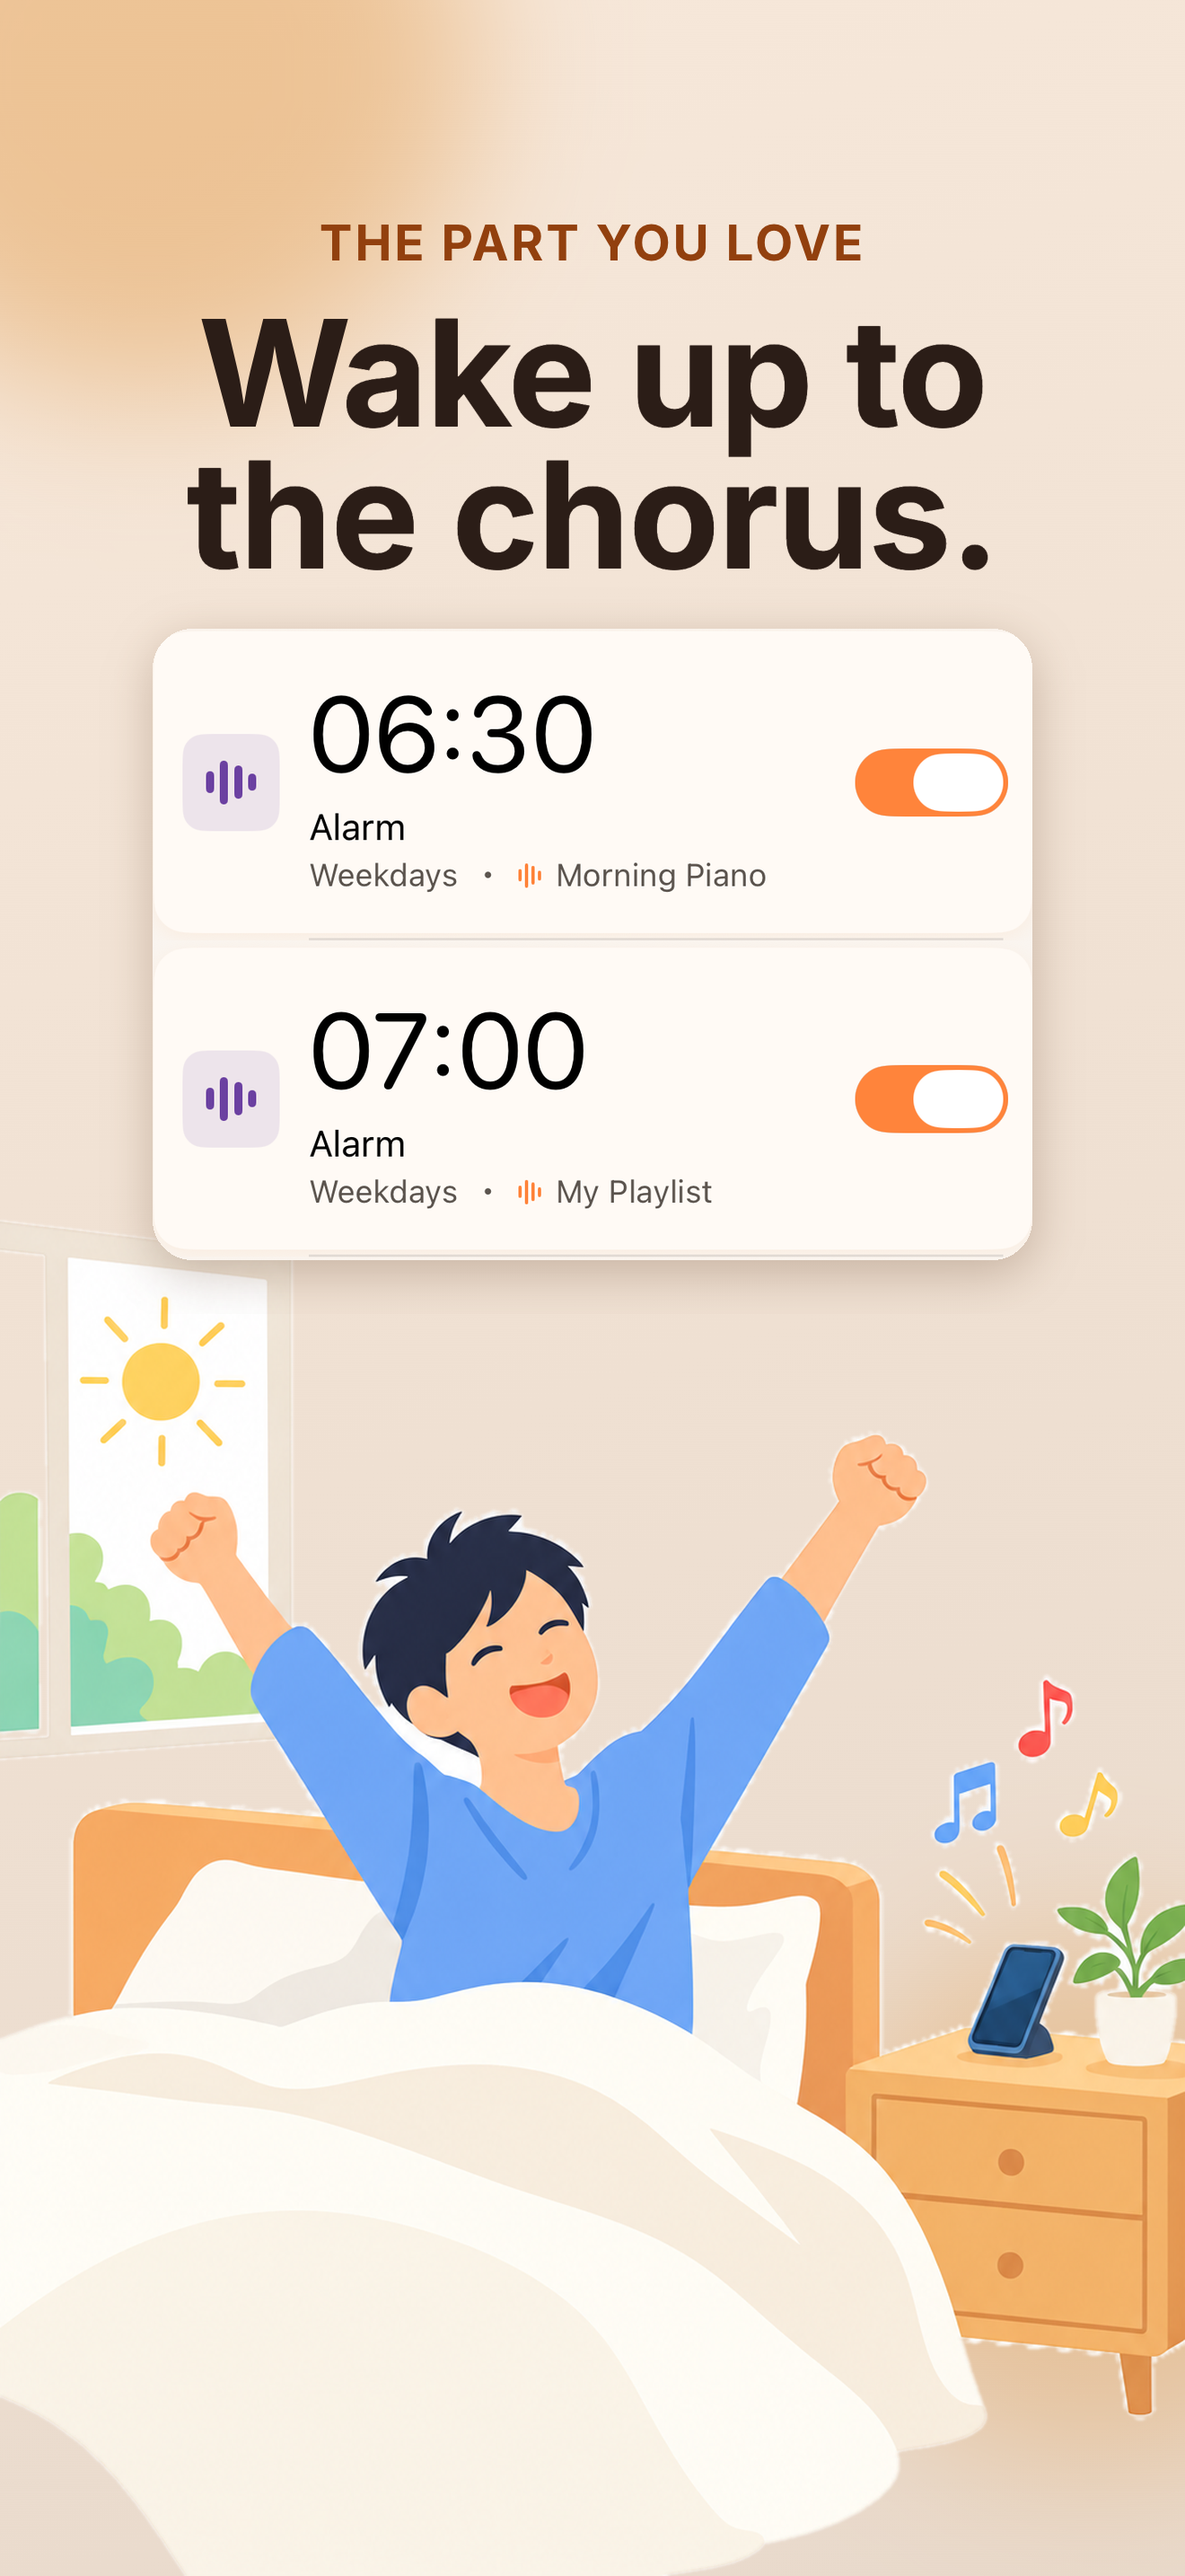
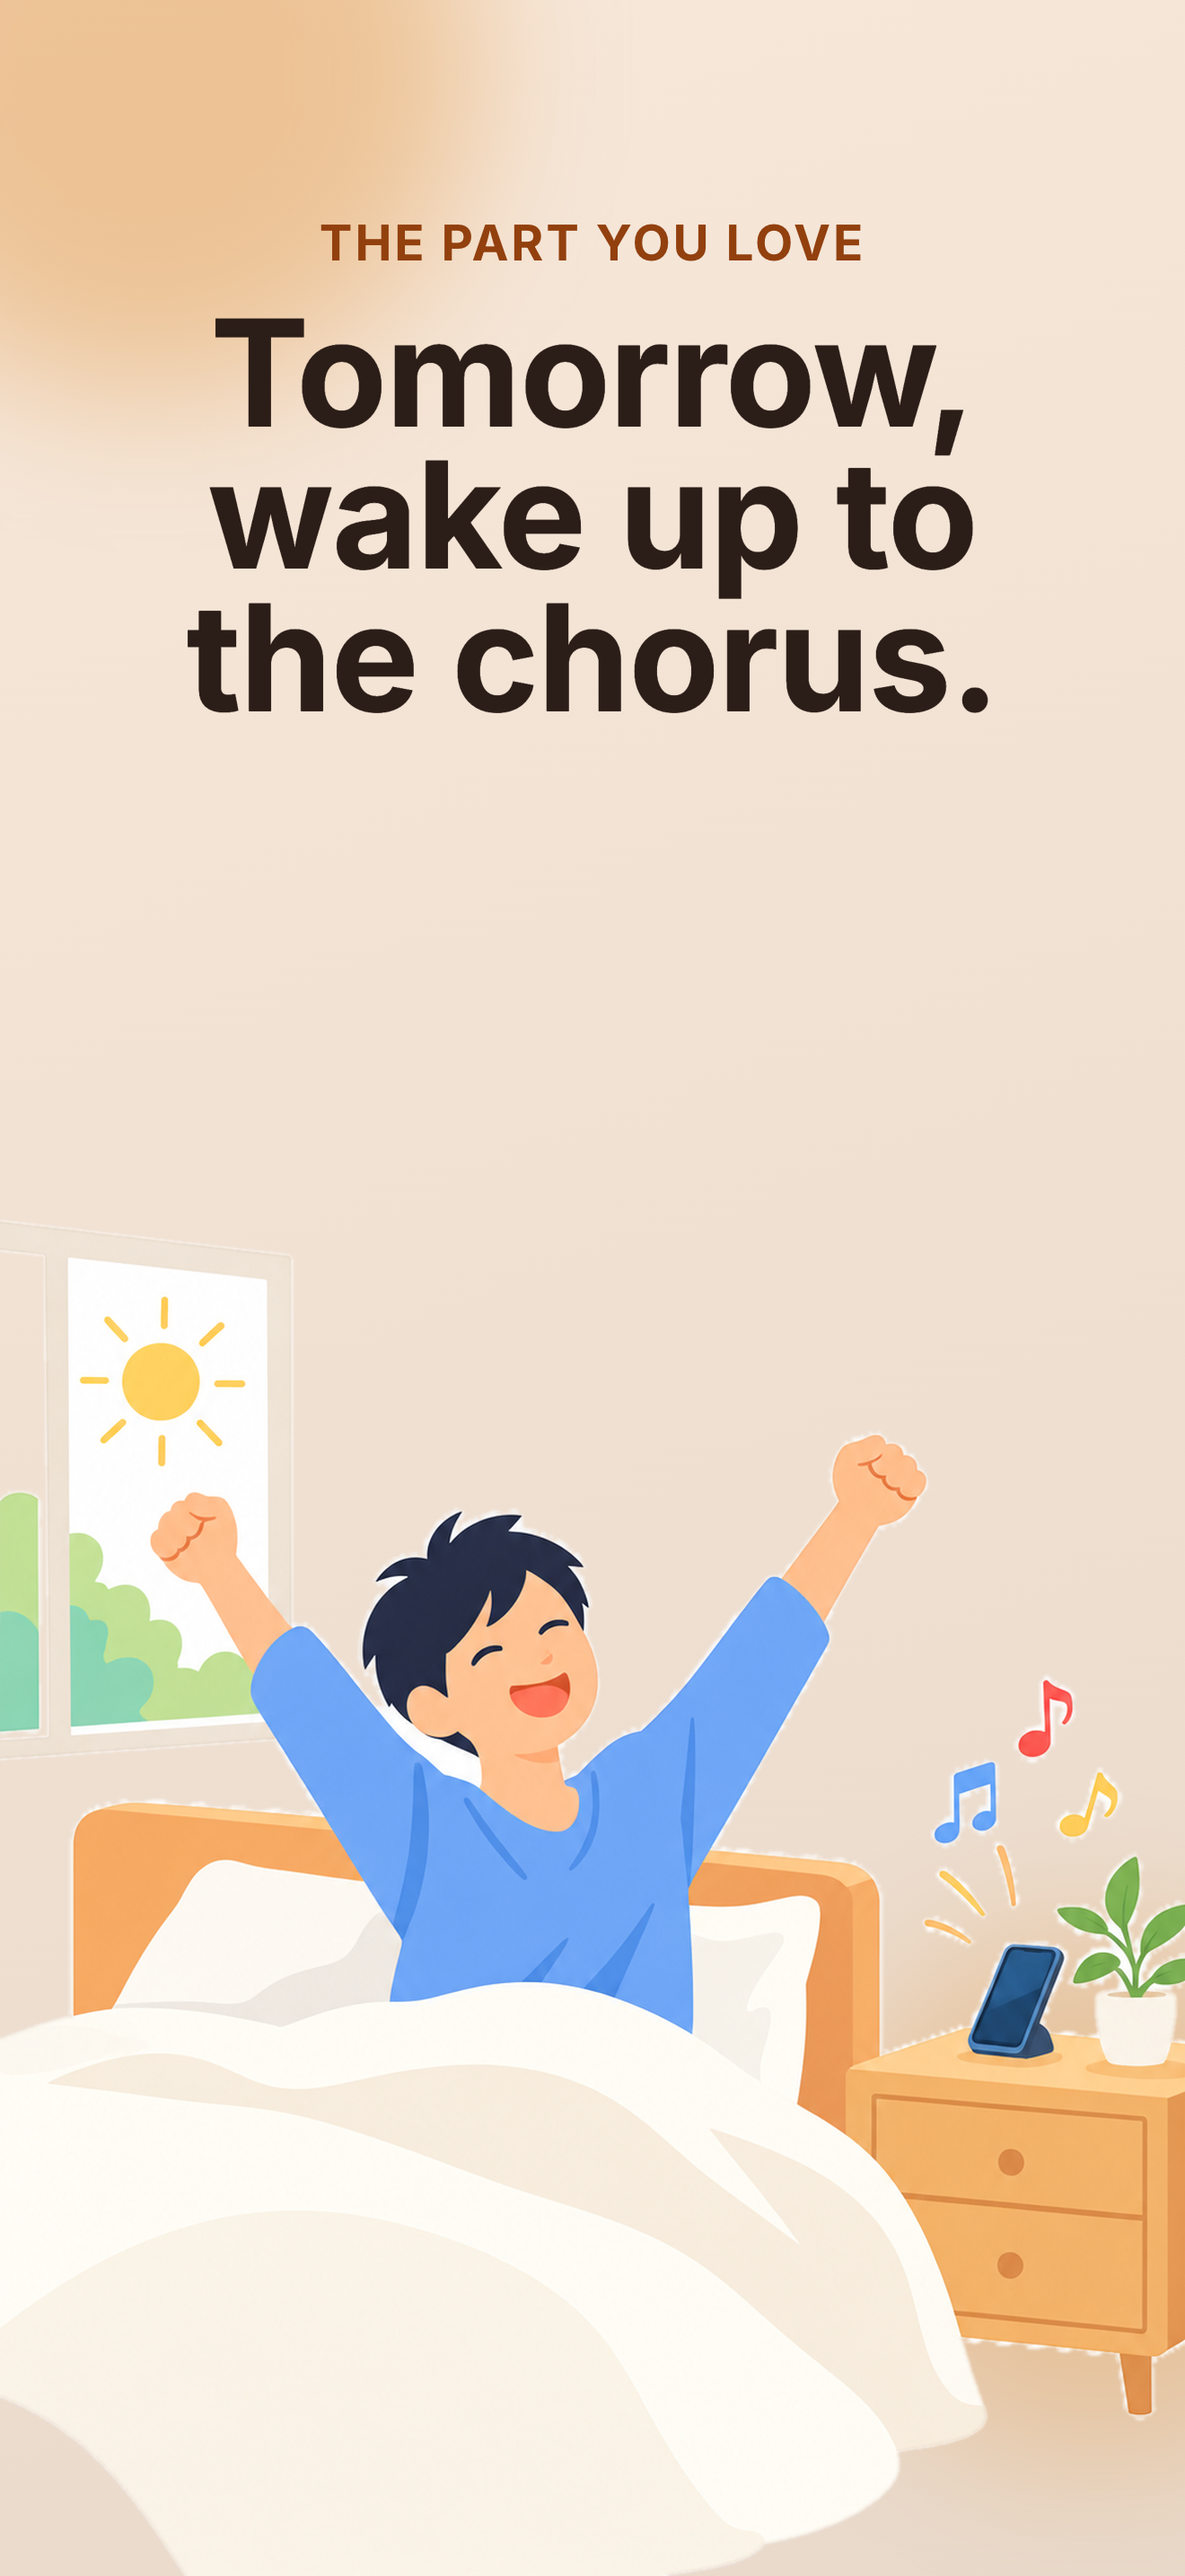
chore(store): #1 borrows the LP's closing line and drops the alarm card (#218)
"明日の朝は／好きなサビで／起きる" / "Tomorrow, wake up to the chorus."
Without the alarm card the first screen has room to breathe.

Claude-Session: https://claude.ai/code/session_01H3m5bxJzxYnBapGaqEKWQD

Changed region(s): [[0.1242, 0.1241, 0.8697, 0.4965]]

diff --git a/scripts/store/compose_illustration_slides.py b/scripts/store/compose_illustration_slides.py
@@ -49,7 +49,7 @@ for l in ['ja','en']:
     # 1
     bg=Image.open(EX+f'{l}/01-no-device.png').convert('RGBA'); W,H=bg.size
     h=hero.resize((W,int(hero.height*W/hero.width)),Image.LANCZOS); place(bg,h,0,H-h.height)
-    c=card(SH+f'{l}-alarms.png',(59,510,1146,1290),980); place(bg,c,(W-c.width)/2,640)
+    # no card: the slide breathes like the LP's closing section
     bg.convert('RGB').save(OUT+f'{l}-01.png')
     # 3
     bg=Image.open(EX+f'{l}/03-no-device.png').convert('RGBA')
